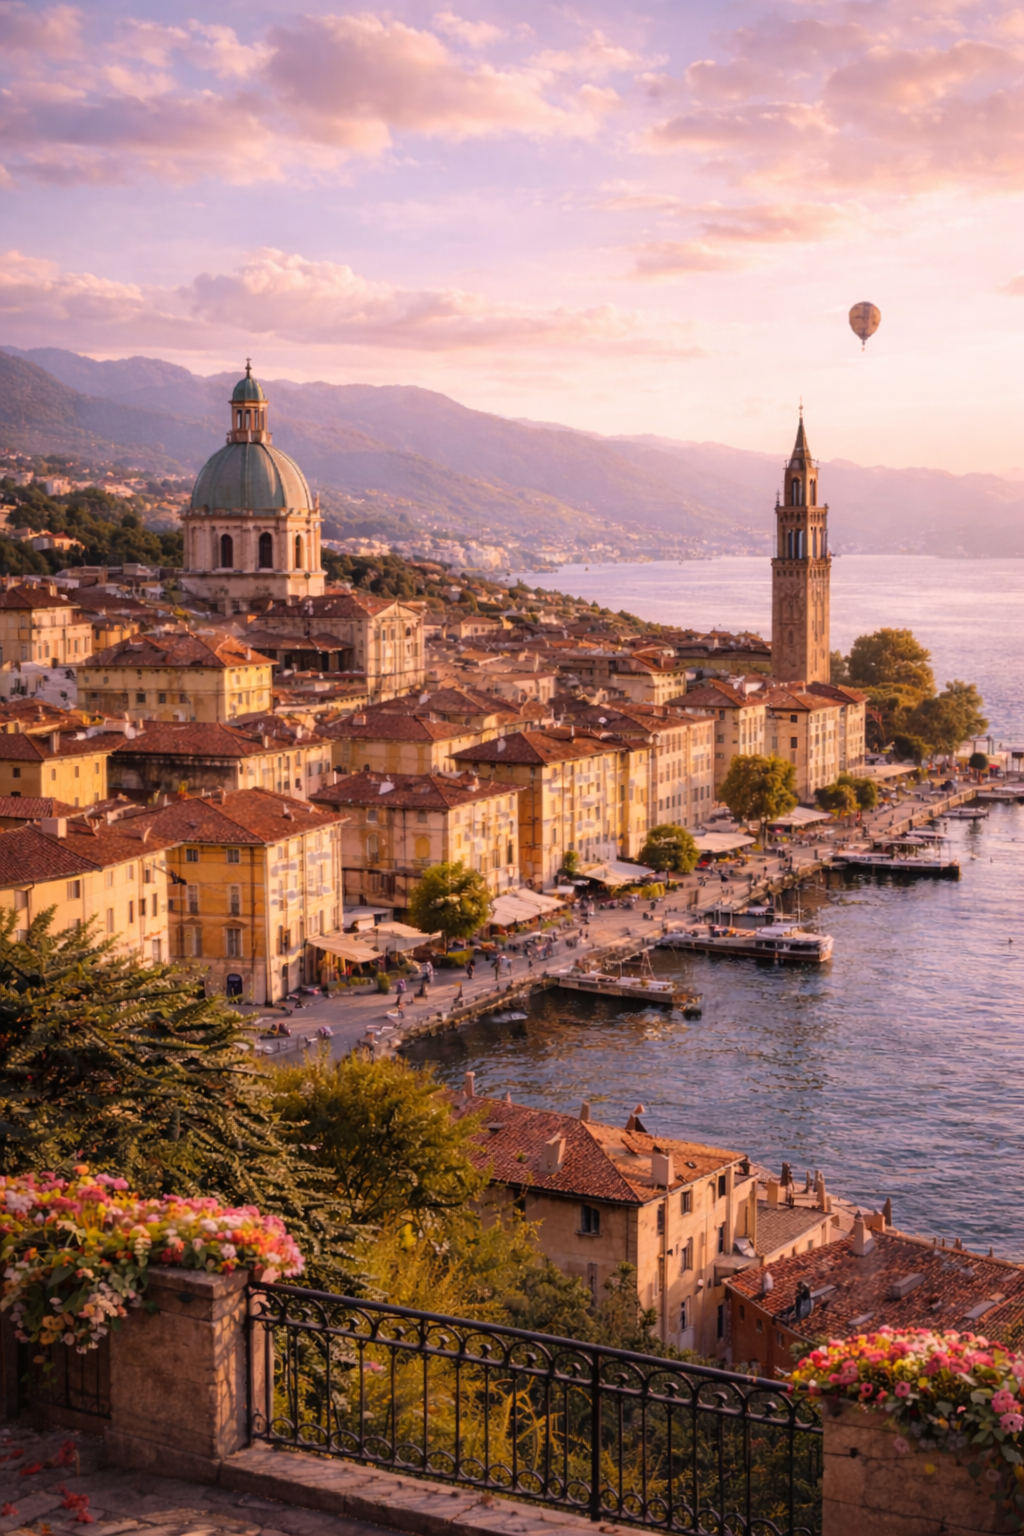
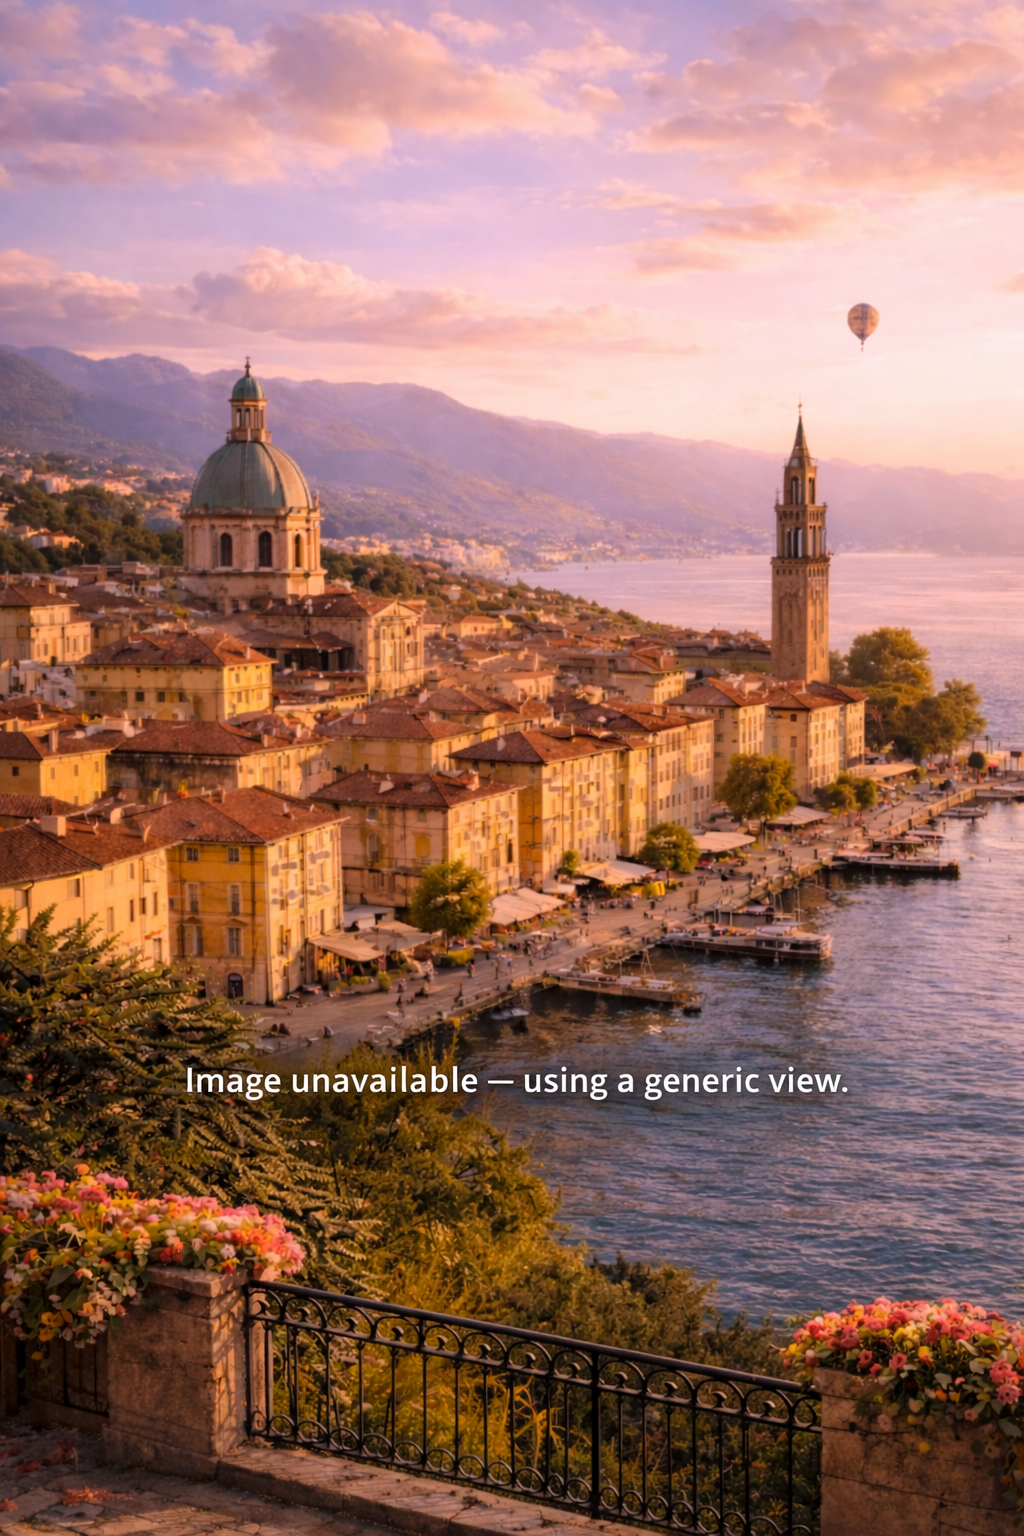
Update POI card to load commentary using /commentary/poi/:poiId

diff --git a/src/ourComponents/Pages/PointOfInterestCard.js b/src/ourComponents/Pages/PointOfInterestCard.js
@@ -1,42 +1,63 @@
 import { Link } from "react-router-dom";
-import { ImLocation } from 'react-icons/im';
-import { HiPlay } from 'react-icons/hi2'
-import { useEffect, useState } from "react";
+import { ImLocation } from "react-icons/im";
+import { HiPlay } from "react-icons/hi2";
 import axios from "axios";
 
 const API = process.env.REACT_APP_API_URL;
 
-export default function PointOfInterestCard({ poi_id, name, img, setActiveMarker, toggleModal, setCurrentPoi, setModalCommentary }) {
+export default function PointOfInterestCard({
+  poi_id,
+  name,
+  img,
+  setActiveMarker,
+  toggleModal,
+  setCurrentPoi,
+  setModalCommentary,
+}) {
+  const liClick = async (name) => {
+  try {
+    const res = await axios.get(`${API}/commentary/poi/${poi_id}`);
+    toggleModal();
+    setCurrentPoi(name);
+    setModalCommentary(
+      res.data?.description || "Commentary is still being generated..."
+    );
+  } catch (err) {
+    console.error("Failed to load commentary:", err);
+    toggleModal();
+    setCurrentPoi(name);
+    setModalCommentary("Commentary unavailable right now.");
+  }
+};
 
-    const [commentary, setCommentary] = useState("")
+  return (
+    <div>
+      <li
+        className="text-left"
+        onMouseOver={() => setActiveMarker(name)}
+        onMouseLeave={() => setActiveMarker("")}
+        onClick={() => liClick(name)}
+      >
+        <span className="float-left px-5 py-2.5 transition-all ease-in duration-75 bg-white dark:bg-gray-900 rounded-md group-hover:bg-opacity-0 w-[400px]">
+          <h3 className="inline-flex text-xl font-bold">
+            <ImLocation />
+            {name}
+          </h3>
 
-    useEffect(() => {
-        axios.get(`${API}/commentary/${poi_id}`)
-            .then((res) => {
-                setCommentary(res.data)
-            })
-    }, [poi_id])
+          <section className="border-l-2 border-sky-950 ml-2">
+            <p className="ml-3">
+              <Link className="inline-flex text-sky-800">
+                <HiPlay className="mt-1" /> PLAY COMMENTARY
+              </Link>
+              &nbsp;
+            </p>
 
-    const liClick = (name) => {
-        toggleModal()
-        setCurrentPoi(name)
-        setModalCommentary(commentary.description)
-    }
-
-    return (
-        <div>
-
-            <li className="text-left"
-                onMouseOver={() => setActiveMarker(name)}
-                onMouseLeave={() => setActiveMarker('')}
-                onClick={() => liClick(name)}
-            ><span className="float-left px-5 py-2.5 transition-all ease-in duration-75 bg-white dark:bg-gray-900 rounded-md group-hover:bg-opacity-0 w-[400px]"><h3 className="inline-flex text-xl font-bold"><ImLocation />{name}</h3>
-                    <section className="border-l-2 border-sky-950 ml-2">
-                        <p className="ml-3"><Link className="inline-flex text-sky-800"><HiPlay className="mt-1" /> PLAY COMMENTARY</Link>&nbsp;</p>
-                        <p className="ml-3 text-gray-500 dark:text-gray-400">Click to view details about {name} and proceed with yout tour...</p>
-                    </section>
-                </span>
-            </li>
-        </div>
-    )
+            <p className="ml-3 text-gray-500 dark:text-gray-400">
+              Click to view details about {name} and proceed with your tour...
+            </p>
+          </section>
+        </span>
+      </li>
+    </div>
+  );
 }

diff --git a/src/ourComponents/Pages/CreateNewTour/CreateNewTour.js b/src/ourComponents/Pages/CreateNewTour/CreateNewTour.js
@@ -150,7 +150,6 @@ const getImageFromUnsplash = async (poi, cityName) => {
 };
 
 
-
 // City photo (with local fallback)
 const fetchCityPhoto = async (cityName, setCityPhoto) => {
   try {
